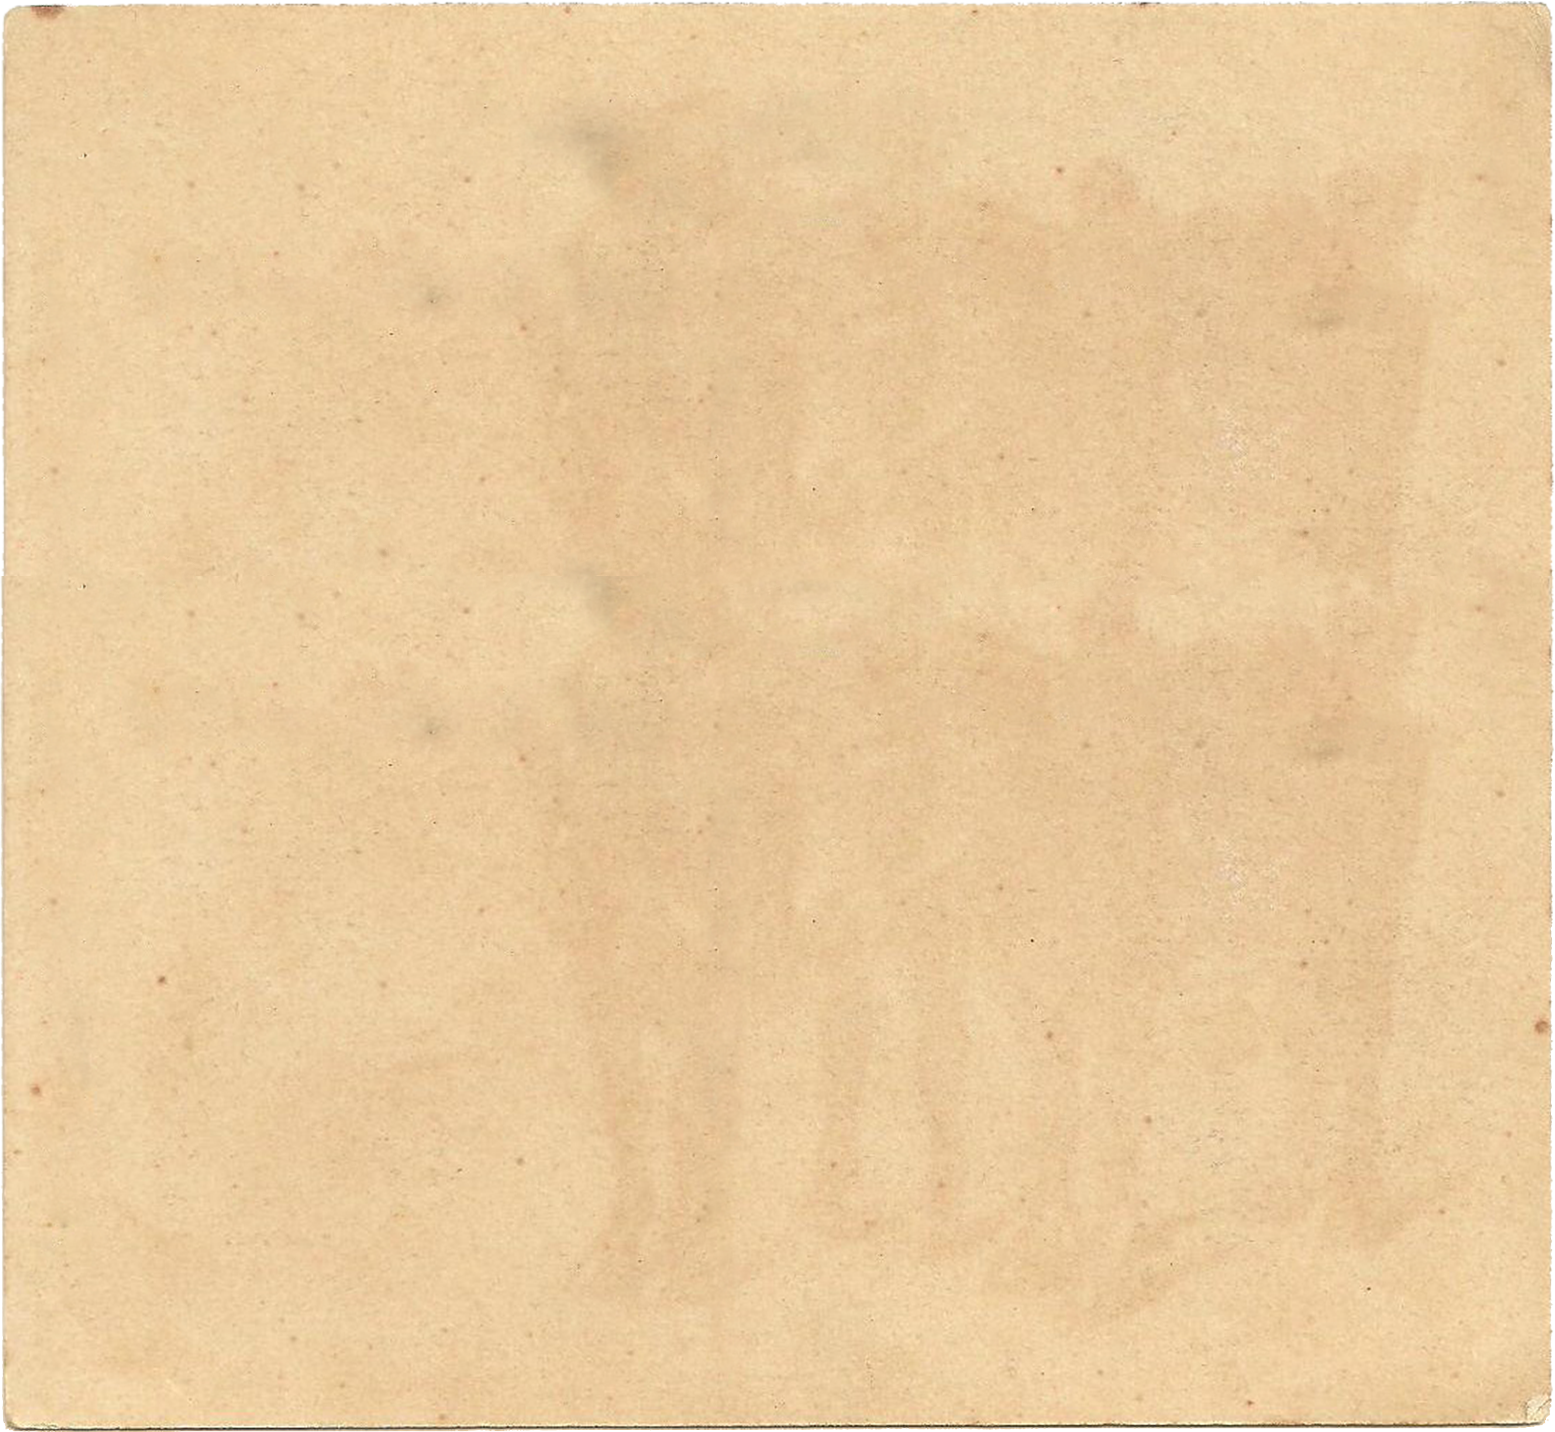
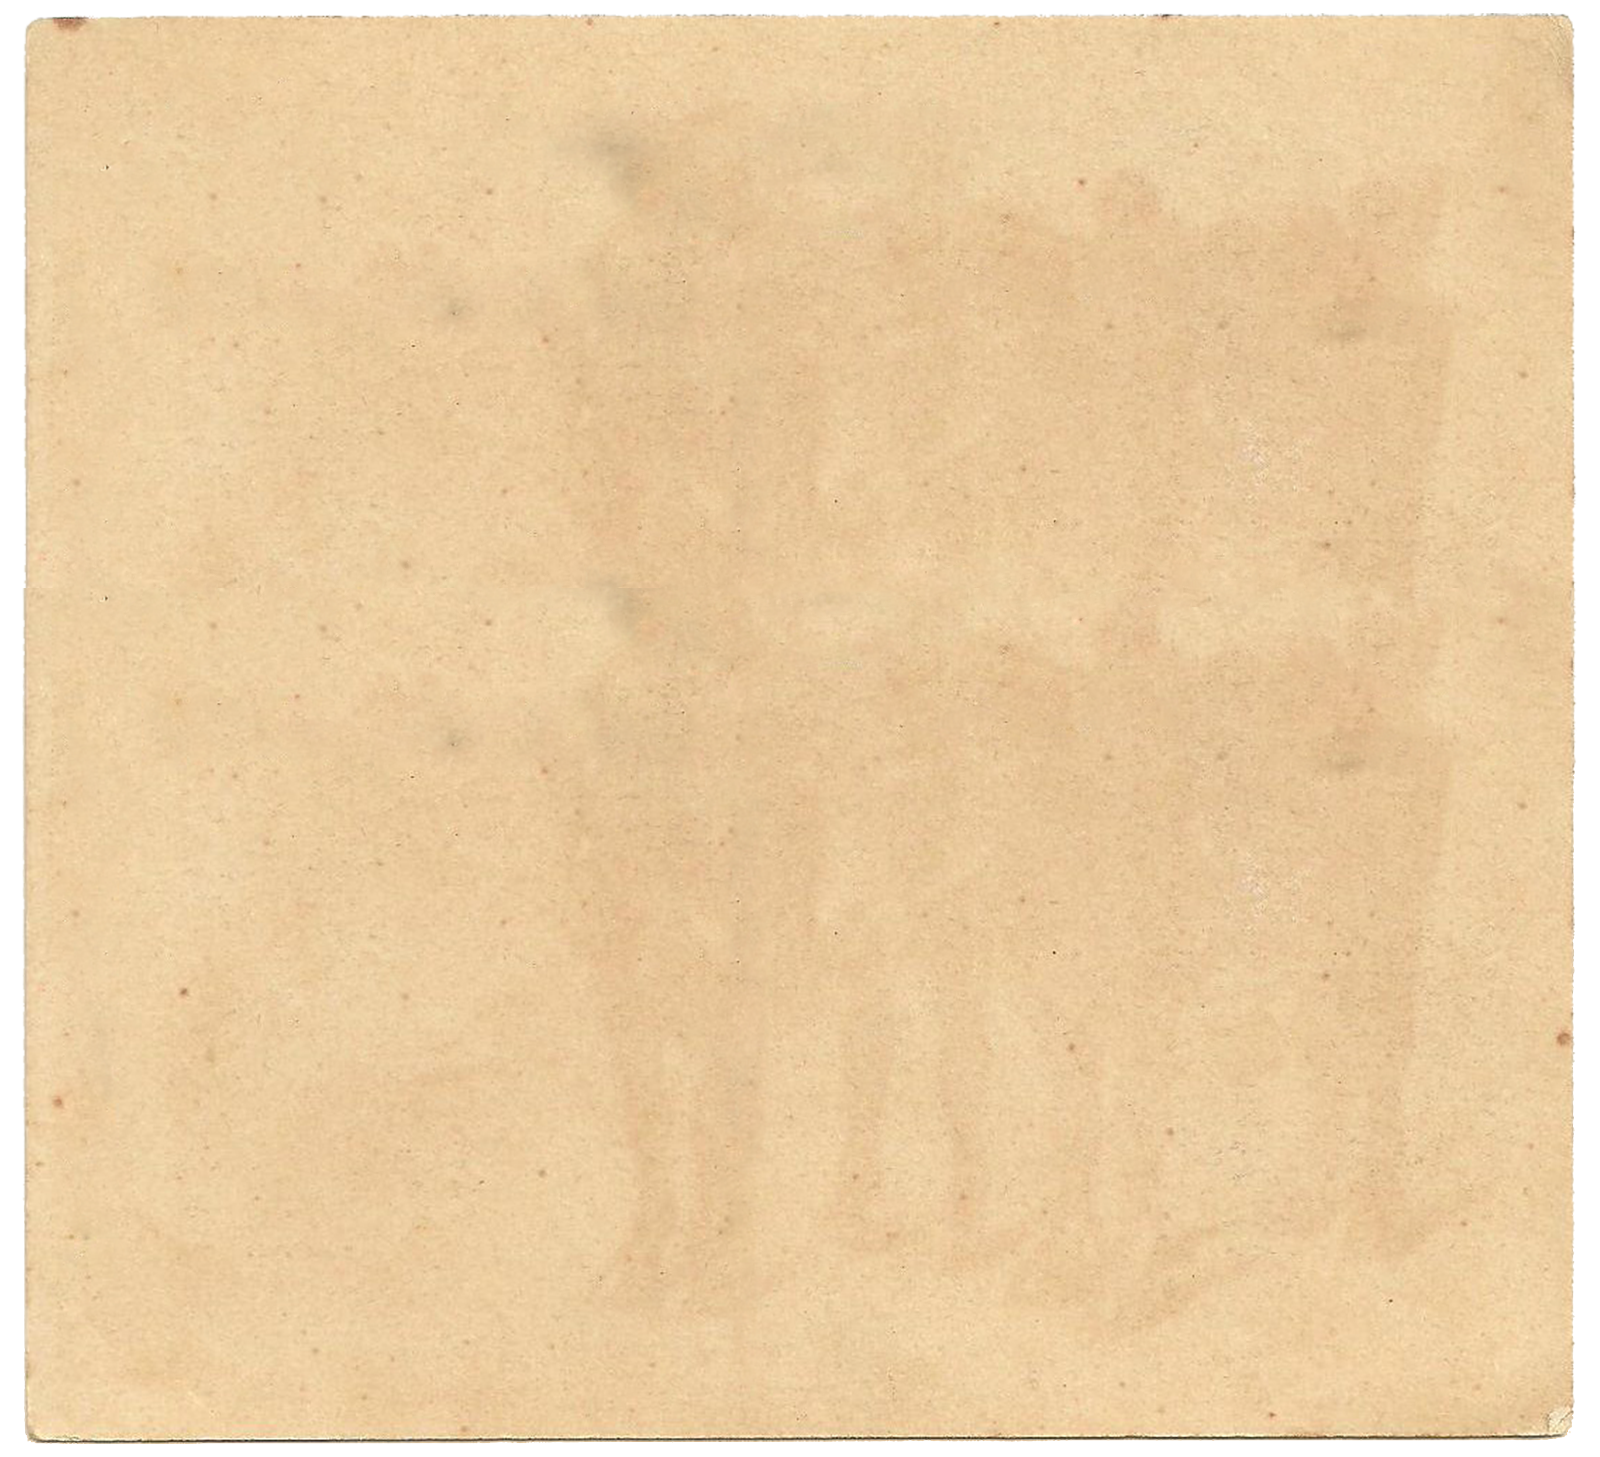
postcard background for tour stops done

Changed region(s): [[0.0, 0.0, 1.0, 1.0]]

diff --git a/css/visit-lincolns-chicago.css b/css/visit-lincolns-chicago.css
@@ -244,7 +244,7 @@ html .tours {
 	.tour__stop {
 		margin-bottom: 2rem;
 		padding: 1rem 2rem;
-		background: url(../img/backgrounds/postcard.png) no-repeat top left;
+		background: url(../img/backgrounds/postcard.jpg) no-repeat top left;
 		background-size: cover;
 		border-radius: 2%;
 		/*background-color: hsla(52, 100%, 91%, .6);*/
